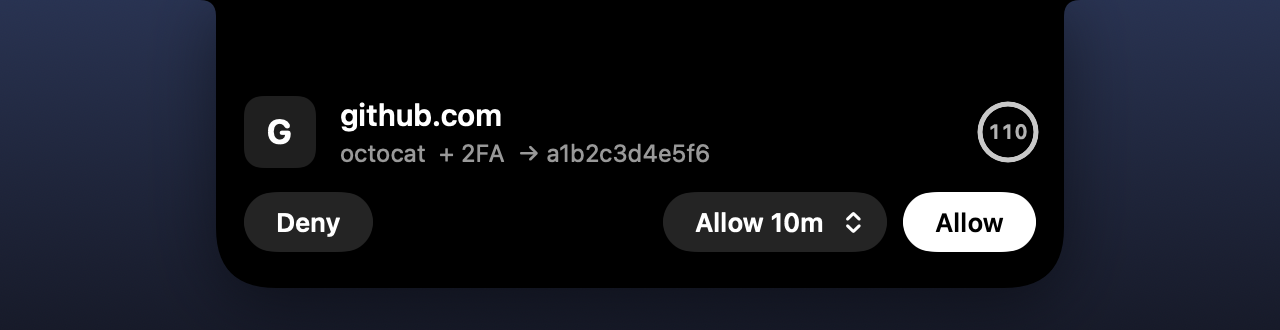
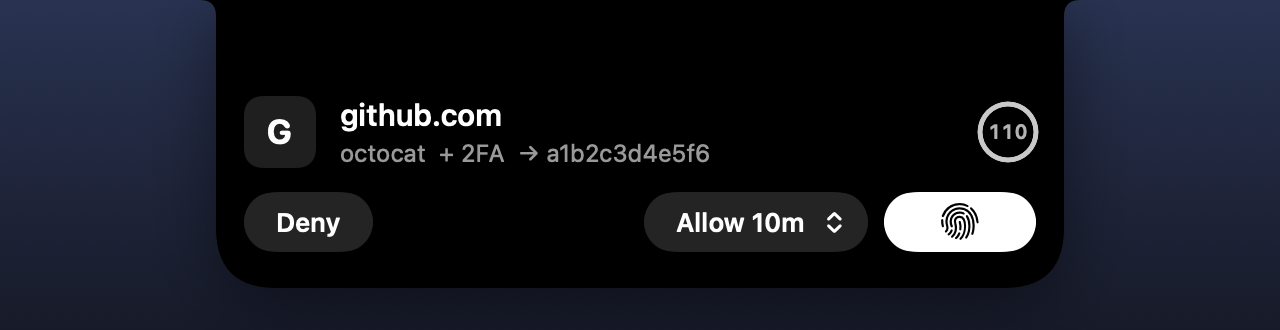
One-touch approve: Touch ID on arrival, fingerprint fills red, cancel keeps request open

Changed region(s): [[0.5, 0.5758, 0.7812, 0.7576]]

diff --git a/NodWarden.swift b/NodWarden.swift
@@ -197,12 +197,15 @@ final class Core: ObservableObject {
 
 /// Approving with a click alone could be forged by anything with Accessibility
 /// access. Device-owner auth means the release needs a finger, not a mouse event.
-func confirmPresence(_ reason: String, _ done: @escaping (Bool) -> Void) {
+/// Returns the context so the caller can cancel a pending prompt (Deny, Allow 10m, timeout).
+@discardableResult
+func confirmPresence(_ reason: String, _ done: @escaping (Bool) -> Void) -> LAContext {
     let ctx = LAContext()
     ctx.localizedFallbackTitle = ""
     ctx.evaluatePolicy(.deviceOwnerAuthentication, localizedReason: reason) { ok, _ in
         DispatchQueue.main.async { done(ok) }
     }
+    return ctx
 }
 
 // MARK: - Geometry
@@ -271,14 +274,20 @@ struct IslandView: View {
     @State private var pinned: Bool
     @State private var minutes = 10
     @State private var confirming = false
+    /// The Touch ID prompt for the request on screen, started as soon as it arrives.
+    @State private var prompt: (id: Int, ctx: LAContext)?
+    /// Request whose Touch ID just succeeded; drives the red fill.
+    @State private var granted: Int?
     @Environment(\.accessibilityReduceMotion) private var reduceMotion
     let notch = Notch.current
 
-    init(core: Core, layout: Layout, hoveringInitial: Bool = false, pinnedInitial: Bool = false) {
+    init(core: Core, layout: Layout, hoveringInitial: Bool = false, pinnedInitial: Bool = false, grantedInitial: Int? = nil, confirmingInitial: Bool = false) {
         self.core = core
         self.layout = layout
         _hovering = State(initialValue: hoveringInitial)
         _pinned = State(initialValue: pinnedInitial)
+        _granted = State(initialValue: grantedInitial)
+        _confirming = State(initialValue: confirmingInitial)
     }
 
     var current: CredRequest? { core.queue.first }
@@ -336,6 +345,17 @@ struct IslandView: View {
         .onChange(of: layout.dismissTick) { _, _ in
             if pinned { withAnimation(springClose) { pinned = false } }
         }
+        .onChange(of: current?.id) { _, id in
+            cancelPrompt()
+            if let id, let r = core.queue.first(where: { $0.id == id }) { approve(r, minutes: nil) }
+        }
+    }
+
+    func cancelPrompt() {
+        prompt?.ctx.invalidate()
+        prompt = nil
+        confirming = false
+        granted = nil
     }
 
     /// Status panel folds back once the pointer has been away for a moment.
@@ -426,10 +446,10 @@ struct IslandView: View {
             }
 
             HStack(spacing: 8) {
-                Button("Deny") { core.decide(r, "deny") }.buttonStyle(Pill(.quiet))
+                Button("Deny") { cancelPrompt(); core.decide(r, "deny") }.buttonStyle(Pill(.quiet))
                 Spacer(minLength: 0)
                 HStack(spacing: 0) {
-                    Button("Allow \(minutes)m") { approve(r, minutes: minutes) }
+                    Button("Allow \(minutes)m") { cancelPrompt(); approve(r, minutes: minutes) }
                         .buttonStyle(Pill(.quiet, flat: true))
                         .accessibilityLabel("Allow for \(minutes) minutes")
                     Button {
@@ -442,7 +462,7 @@ struct IslandView: View {
                     .accessibilityLabel("Change auto-allow duration")
                 }
                 .background(.white.opacity(0.14), in: Capsule())
-                Button(confirming ? "Touch ID…" : "Allow") { approve(r, minutes: nil) }.buttonStyle(Pill(.primary))
+                AllowButton(waiting: confirming, filled: granted == r.id) { approve(r, minutes: nil) }
             }
         }
         .padding(.top, notch.height + 10)
@@ -488,11 +508,26 @@ struct IslandView: View {
         guard !confirming else { return }
         confirming = true
         let what = m.map { "allow \(r.domain) for \(r.device) for \($0) minutes" } ?? "release \(r.domain) to \(r.device)"
-        confirmPresence(what) { ok in
+        let ctx = confirmPresence(what) { ok in
+            // Ignore a stale answer: the request was decided or replaced meanwhile.
+            guard prompt?.id == r.id else { return }
+            prompt = nil
             confirming = false
-            guard ok else { return }
-            if let m { minutes = m; core.decide(r, "approve_for", minutes: m) } else { core.decide(r, "approve") }
+            guard ok, core.queue.contains(where: { $0.id == r.id }) else { return }
+            if let m {
+                minutes = m
+                core.decide(r, "approve_for", minutes: m)
+                return
+            }
+            // Let the red fill finish, then release.
+            granted = r.id
+            NSHapticFeedbackManager.defaultPerformer.perform(.levelChange, performanceTime: .now)
+            DispatchQueue.main.asyncAfter(deadline: .now() + 0.45) {
+                guard core.queue.contains(where: { $0.id == r.id }) else { return }
+                core.decide(r, "approve")
+            }
         }
+        prompt = (r.id, ctx)
     }
 
     func detailLine(_ r: CredRequest) -> String {
@@ -603,6 +638,58 @@ struct Countdown: View {
     }
 }
 
+/// Fingerprint at rest (touching the sensor is the approval); "Allow" on hover for clicking.
+/// On success the print fills red from the bottom before the secret is released.
+/// macOS reports only the result of Touch ID, not finger-down, so the fill plays on success.
+struct AllowButton: View {
+    let waiting: Bool
+    let filled: Bool
+    let action: () -> Void
+    @State private var hover = false
+
+    /// After Touch ID is cancelled (`waiting` false), it's a plain "Allow" button that reopens it.
+    var showText: Bool { (hover || !waiting) && !filled }
+
+    var body: some View {
+        Button(action: action) {
+            ZStack {
+                fingerprint
+                    .opacity(showText ? 0 : 1)
+                    .scaleEffect(showText ? 0.85 : (filled ? 1.15 : 1))
+                Text("Allow")
+                    .opacity(showText ? 1 : 0)
+                    .scaleEffect(showText ? 1 : 0.85)
+            }
+            .frame(width: 44)
+        }
+        .buttonStyle(Pill(.primary))
+        .disabled(filled)
+        .onHover { h in withAnimation(.easeOut(duration: 0.15)) { hover = h } }
+        .animation(.spring(response: 0.3, dampingFraction: 0.6), value: filled)
+        .help(waiting ? "Touch the sensor, or click to allow" : "Allow")
+        .accessibilityLabel("Allow")
+    }
+
+    var glyph: some View {
+        Image(systemName: "touchid").font(.system(size: 17, weight: .semibold))
+    }
+
+    var fingerprint: some View {
+        glyph
+            .symbolEffect(.pulse, isActive: waiting && !hover && !filled)
+            .overlay {
+                GeometryReader { g in
+                    Rectangle()
+                        .fill(Color(red: 1, green: 0.23, blue: 0.3))
+                        .frame(height: g.size.height * (filled ? 1 : 0))
+                        .frame(maxHeight: .infinity, alignment: .bottom)
+                        .animation(.easeOut(duration: 0.4), value: filled)
+                }
+                .mask(glyph)
+            }
+    }
+}
+
 struct Pill: ButtonStyle {
     enum Kind { case primary, quiet }
     let kind: Kind
@@ -698,10 +785,10 @@ final class AppDelegate: NSObject, NSApplicationDelegate {
 func snapshot(to dir: String) {
     let sample = CredRequest(id: 1, domain: "github.com", username: "octocat", device: "a1b2c3d4e5f6",
                              hasTotp: true, byId: true, arrived: Date(), timeout: 110)
-    func shot(_ name: String, _ hover: Bool = false, _ pinned: Bool = false, _ setup: (Core) -> Void) {
+    func shot(_ name: String, _ hover: Bool = false, _ pinned: Bool = false, granted: Int? = nil, waiting: Bool = false, _ setup: (Core) -> Void) {
         let core = Core()
         setup(core)
-        let v = IslandView(core: core, layout: Layout(), hoveringInitial: hover, pinnedInitial: pinned)
+        let v = IslandView(core: core, layout: Layout(), hoveringInitial: hover, pinnedInitial: pinned, grantedInitial: granted, confirmingInitial: waiting)
             .frame(width: 640, height: 190)
             .background(LinearGradient(colors: [Color(red: 0.16, green: 0.20, blue: 0.32), Color(red: 0.08, green: 0.09, blue: 0.14)],
                                        startPoint: .top, endPoint: .bottom))
@@ -714,7 +801,9 @@ func snapshot(to dir: String) {
     shot("1-idle") { $0.state = .unlocked }
     shot("1b-idle-locked") { $0.state = .locked }
     shot("2-hover", true) { $0.state = .unlocked }
-    shot("3-request") { $0.state = .unlocked; $0.queue = [sample] }
+    shot("3-request", waiting: true) { $0.state = .unlocked; $0.queue = [sample] }
+    shot("3a-cancelled") { $0.state = .unlocked; $0.queue = [sample] }
+    shot("3b-touched", granted: 1, waiting: true) { $0.state = .unlocked; $0.queue = [sample] }
     shot("4-queue") { $0.state = .unlocked; $0.queue = [sample, sample] }
     shot("5-approved") { $0.state = .unlocked; $0.outcome = .approved("github.com") }
     shot("6-denied") { $0.state = .unlocked; $0.outcome = .denied("github.com") }

diff --git a/README.md b/README.md
@@ -51,7 +51,9 @@ type into that terminal can approve for you.
 - The agent asks for one item (`aac run --domain github.com …`), never the vault.
 - The notch grows open and shows the site, the username, whether a 2FA code comes with it,
   which device is asking, and a countdown.
-- **Allow** needs Touch ID. **Allow 10m** auto-approves the same device and item for a window
+- Touch ID starts as soon as the request appears: touch the sensor to allow. The fingerprint fills red
+  as it's released. Cancel the prompt and the request stays open; click **Allow** to bring Touch ID
+  back. **Allow 10m** auto-approves the same device and item for a window
   you choose (5–60 min). **Deny**, or no answer within 110 s, refuses the request.
 - The secret goes into the environment of the agent's child process only. It never reaches
   stdout, so it stays out of the model's context.
